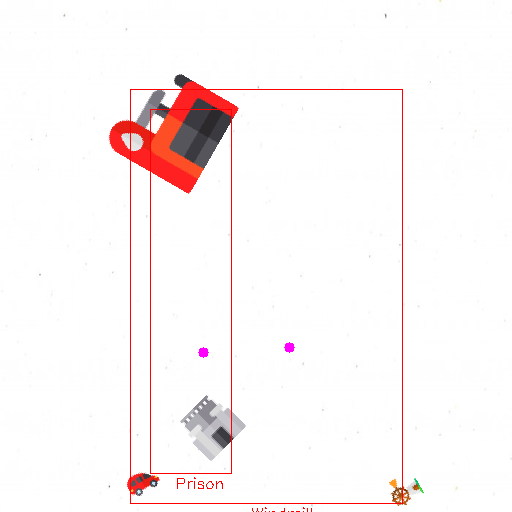
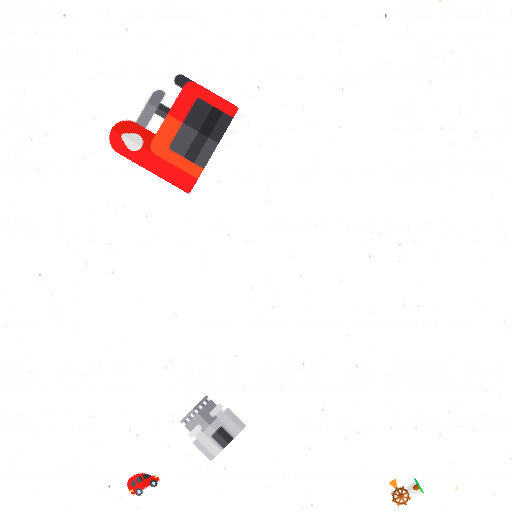
Added unrotated test images, gaussian blurring, and parameter turning, drastically improving results

diff --git a/task3.py b/task3.py
@@ -41,13 +41,13 @@ def findMatchingPoints(icon, image, distanceThreshold, zScoreThreshold):
 # Input: initial array; threshold for outlier detection
 # Output: array with outliers removed
 def removeOutliers(data, threshold):
+
     # zscore gives a measure of how far an element is from the mean
     zScores = np.abs(stats.zscore(data))
 
     # Removes all elements with the zscore for x or y greater than the threshold
     cleanedData = []
     for i in range(len(data)):
-        # Maybe change this to combination of zscore for x and y?
         if zScores[i][0] <= threshold and zScores[i][1] <= threshold:
             cleanedData.append(data[i])
 
@@ -72,11 +72,11 @@ def findBoundingSquare(matchingPoints):
 
     return ((int(leftmostPoint), int(bottommostPoint)), (int(rightmostPoint), int(topmostPoint)))
 
-def findIconInImage(icon, iconName, image, pointsThreshold):
+def findIconInImage(icon, iconName, image, pointsThreshold, distanceThreshold, zScoreThreshold):
     originalImage = image
 
     # Finds the matching points of the icon in the image, if they exist
-    matchingPoints = findMatchingPoints(icon, image, 1250, 2)
+    matchingPoints = findMatchingPoints(icon, image, distanceThreshold, zScoreThreshold)
 
     # Finds the centre of these points, if there are enough to constitute a match
     if len(matchingPoints) >= pointsThreshold:
@@ -94,7 +94,7 @@ def findIconInImage(icon, iconName, image, pointsThreshold):
         # print(boundingPoints)
         textPosition = (boundingPoints[0][0], boundingPoints[1][1] + 15)
         font = cv2.FONT_HERSHEY_SIMPLEX
-        matchesImage = cv2.putText(matchesImage, iconName, textPosition, font, 0.5, (0, 0, 255))
+        matchesImage = cv2.putText(matchesImage, iconName, textPosition, font, 0.5, (0, 0, 0))
 
         return matchesImage
     # Otherwise it does not exist in the image
@@ -103,26 +103,36 @@ def findIconInImage(icon, iconName, image, pointsThreshold):
         return originalImage
 
 def main():
-    # Determines how many matching points are needed to count as a match
+    # Determines how many matching points are needed to count as a match, higher means stricter
     pointsThreshold = 10
+    # Determines how similar two points have to be to count as a match, lower means stricter
+    distanceThreshold = 1000
+    # Threshold for removing spatial outliers, lower means stricter
+    zScoreThreshold = 1
 
     # Icon is the smaller image to search for, image is the larger image to search in
-    imagePaths = os.listdir('./Task3Dataset/images/')
+    imagesLocation = './Task3Dataset/images/'
+    imagePaths = os.listdir(imagesLocation)
     iconPaths = os.listdir('./IconDataset/png/')
     iconNames = ["Lighthouse", "Bike", "Bridge1", "Bridge", "Silo", "Church", "Supermarket", "Courthouse", "Airport", "Bench", "Bin", "Bus", "Water Well", "Flower",
                  "Barn", "House", "Cinema", "Bank", "Prison", "ATM", "Solar Panel", "Car", "Traffic Light", "Fountain", "Factory", "Shop", "Petrol Station", "Government",
                  "Theatre", "Telephone Box", "Field", "Van", "Hydrant", "Billboard", "Police Station", "Hotel", "Post Office", "Library", "University", "Bus Stop", "Windmill",
                  "Tractor", "Sign", "Ferris Wheel", "Museum", "Fire Station", "Restaurant", "Hospital", "School", "Cemetery"]
+    
+    icons = []
+    for iconPath in iconPaths:
+        path = './IconDataset/png/' + iconPath
+        icon = cv2.imread(path)
+        # Slight blurring seems to remove false positives
+        icon = cv2.blur(icon, (2, 2))
+        icons.append(icon)
 
     for i in range(len(imagePaths)):
-        imagePath = './Task3Dataset/images/' + imagePaths[i]
+        imagePath = imagesLocation + imagePaths[i]
         image = cv2.imread(imagePath)
 
         for j in range(len(iconPaths)):
-            iconPath = './IconDataset/png/' + iconPaths[j]
-            icon = cv2.imread(iconPath)
-    
-            image = findIconInImage(icon, iconNames[j], image, pointsThreshold)
+            image = findIconInImage(icons[j], iconNames[j], image, pointsThreshold, distanceThreshold, zScoreThreshold)
 
         if type(image) == np.ndarray:
             # cv2.imshow('image', cv2.resize(image, (800, 600)))
@@ -133,6 +143,7 @@ def main():
             #     cv2.destroyAllWindows()
 
             cv2.imwrite("./Task3OutputImages/" + imagePaths[i], image)
+            print("Image", i + 1, "done")
     
 
 main()
